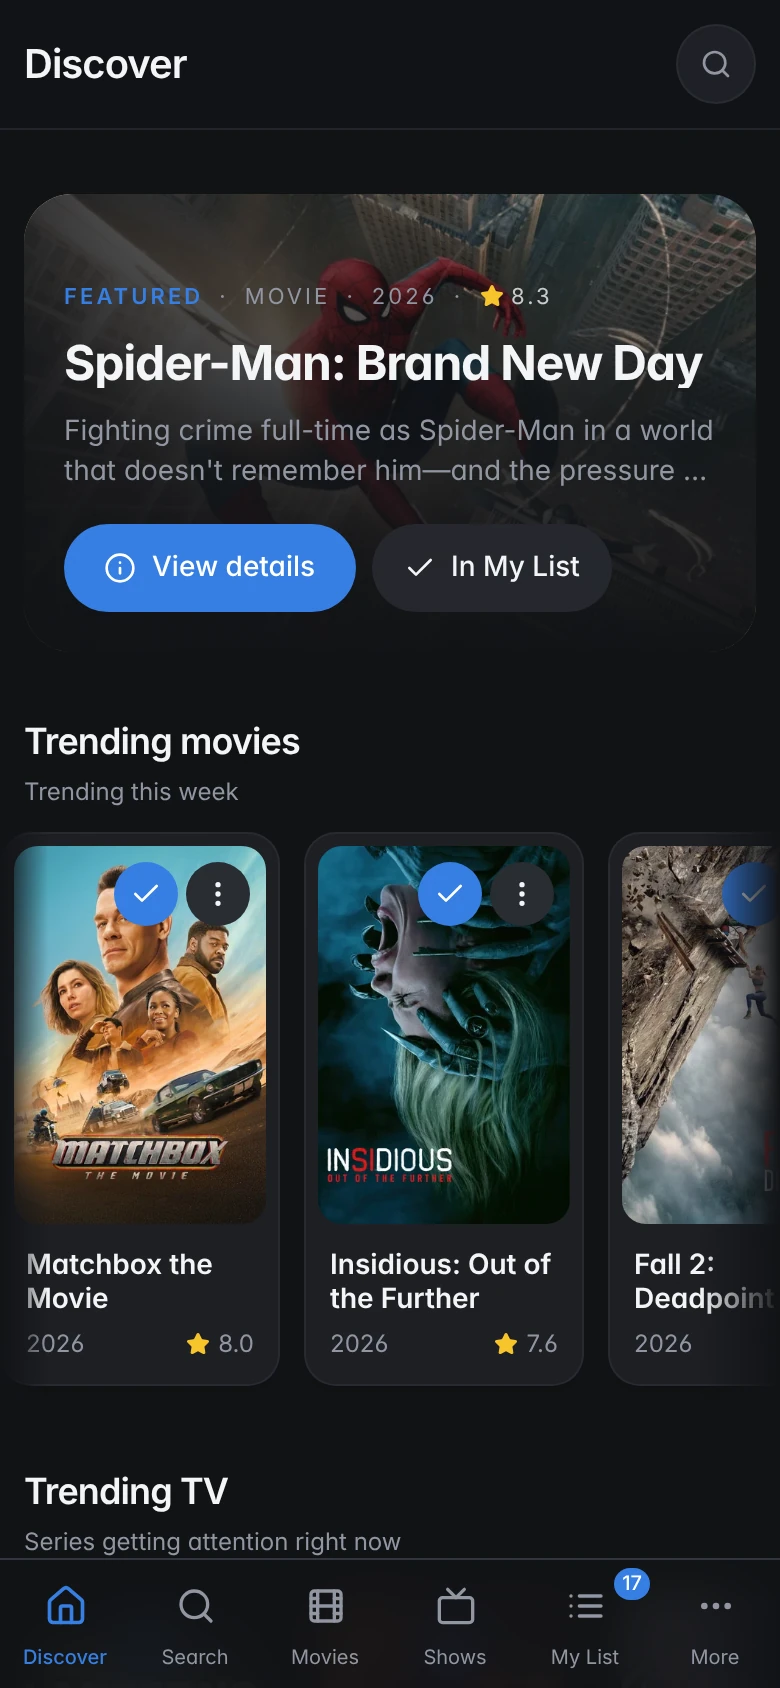
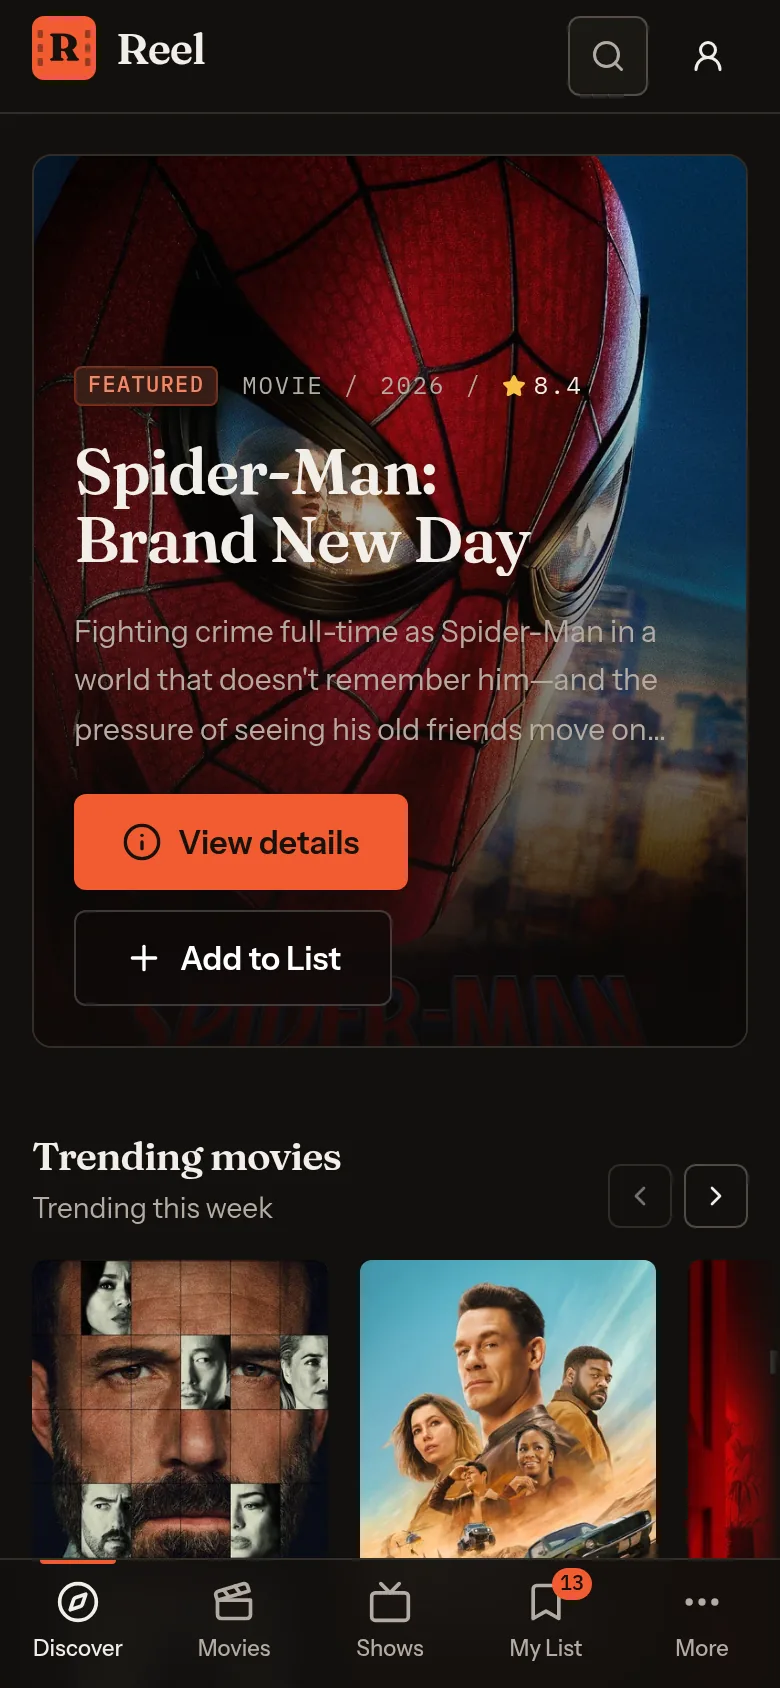
docs: refresh README, changelog and screenshots for the redesign
- Retake every README screenshot from the merged UI (WebP, about half the size) and add Settings,
  sign-in and a mobile title page.
- README: features (Settings, JSON export, account deletion, accessibility, legal pages), tech
  stack, project structure, scripts, the delete-account deploy step, fonts and attribution; the
  license badge no longer uses the old blue.
- CHANGELOG: redesign entries, and two lines corrected to match the shipped UI.
- CONTRIBUTING: design-system rules and the current repo layout.
- SECURITY.md, the PR template and DESIGN.md list the delete-account function and the Slate
  behaviour.

diff --git a/README.md b/README.md
@@ -12,7 +12,7 @@
 
 <p align="center">
   <a href="https://github.com/omsingh02/reel/actions/workflows/ci.yml"><img alt="CI" src="https://github.com/omsingh02/reel/actions/workflows/ci.yml/badge.svg"></a>
-  <a href="LICENSE"><img alt="License: MIT" src="https://img.shields.io/badge/license-MIT-1D64C9"></a>
+  <a href="LICENSE"><img alt="License: MIT" src="https://img.shields.io/badge/license-MIT-F25B31"></a>
   <img alt="TypeScript" src="https://img.shields.io/badge/TypeScript-5-3178C6?logo=typescript&logoColor=white">
   <img alt="React" src="https://img.shields.io/badge/React-18-149ECA?logo=react&logoColor=white">
   <img alt="Vite" src="https://img.shields.io/badge/Vite-5-646CFF?logo=vite&logoColor=white">
@@ -34,35 +34,40 @@
 ## Screenshots
 
 <p align="center">
-  <img src="docs/screenshots/discover.webp" alt="Discover page with a featured title and trending rails" width="49%">
-  <img src="docs/screenshots/title-details.webp" alt="Title page with rating, watched date and trailer" width="49%">
+  <img src="docs/screenshots/discover.webp" alt="Discover with a cinemascope featured title and trending rails" width="49%">
+  <img src="docs/screenshots/title-details.webp" alt="Title page with your rating, watched date and where to watch" width="49%">
 </p>
 <p align="center">
-  <img src="docs/screenshots/my-list.png" alt="My List with watched titles and ratings" width="49%">
-  <img src="docs/screenshots/episode-tracking.png" alt="Per-episode progress for a TV show" width="49%">
+  <img src="docs/screenshots/my-list.webp" alt="My List with watched titles and ratings" width="49%">
+  <img src="docs/screenshots/episode-tracking.webp" alt="Per-episode progress for a TV show" width="49%">
 </p>
 <p align="center">
-  <img src="docs/screenshots/stats.png" alt="Viewing stats" width="49%">
-  <img src="docs/screenshots/upcoming.png" alt="Upcoming releases and new episodes for your list" width="49%">
+  <img src="docs/screenshots/stats.webp" alt="Viewing stats as a credits sheet" width="49%">
+  <img src="docs/screenshots/upcoming.webp" alt="Upcoming releases and new episodes as ticket stubs" width="49%">
 </p>
 
 <details>
-<summary><b>Mobile and light theme</b></summary>
+<summary><b>Mobile, light theme and account screens</b></summary>
 <br>
 <p align="center">
   <img src="docs/screenshots/mobile-discover.webp" alt="Mobile Discover" width="24%">
-  <img src="docs/screenshots/mobile-my-list.png" alt="Mobile My List" width="24%">
-  <img src="docs/screenshots/mobile-stats.png" alt="Mobile Stats" width="24%">
+  <img src="docs/screenshots/mobile-my-list.webp" alt="Mobile My List" width="24%">
+  <img src="docs/screenshots/mobile-stats.webp" alt="Mobile Stats" width="24%">
+  <img src="docs/screenshots/mobile-title.webp" alt="Mobile title page" width="24%">
 </p>
 <p align="center">
-  <img src="docs/screenshots/light-mode.webp" alt="Movies catalogue in the light theme" width="80%">
+  <img src="docs/screenshots/light-mode.webp" alt="Movies catalogue in the light theme" width="49%">
+  <img src="docs/screenshots/settings.webp" alt="Settings with appearance, account and data export" width="49%">
+</p>
+<p align="center">
+  <img src="docs/screenshots/auth.webp" alt="Sign in and create account" width="80%">
 </p>
 </details>
 
 ## Features
 
 **Discover**
-- Featured title plus trending and popular rails for movies and TV.
+- A cinemascope hero for the featured title, then trending and popular rails for movies and TV.
 - Browse **Movies** and **TV Shows** by genre, year, minimum rating and sort order. Filters live in the URL, so a filtered view is shareable.
 - Search with infinite scroll. If the Movies tab has no hits but TV does, it switches for you.
 - Title pages with cast and crew, trailer, recommendations, similar titles, and **where to watch** by region (streaming, rent, buy).
@@ -77,8 +82,11 @@
 **Yours, wherever you are**
 - **Guest first.** Everything works without an account and is stored in your browser. Sign in later and your list, hidden titles and episode progress are merged into your account.
 - Email and password accounts with verification and password reset. Per-user data is protected by Postgres Row Level Security.
-- Dark and light themes, a responsive layout with a mobile bottom bar, and a web app manifest so it can be added to your home screen.
+- **Settings**: switch theme, change your password, **export everything as JSON**, clear this device's data, or **delete your account** (a typed confirmation, then everything you saved goes with it).
+- Dark ("projection room") and light ("programme paper") themes, a top navigation bar on desktop and a bottom tab bar on phones, and a web app manifest so it can be added to your home screen.
+- Accessible by design: keyboard-friendly dialogs with focus management, labelled controls, and colour pairs checked against WCAG AA in both themes.
 - Catalogue responses are cached locally for a few hours so the app feels instant.
+- Plain-language [About](src/pages/About.tsx), [Privacy](src/pages/Privacy.tsx) and [Terms](src/pages/Terms.tsx) pages that say what is stored and who it is shared with.
 
 **For AI assistants**
 - An OAuth-protected [MCP server](#mcp-server) lets compatible assistants search titles and manage your list on your behalf.
@@ -87,11 +95,11 @@
 
 | Layer | What it uses |
 | --- | --- |
-| Frontend | React 18, TypeScript, Vite, Tailwind CSS, shadcn/ui (Radix), React Router, TanStack Query, Zod |
+| Frontend | React 18, TypeScript, Vite, Tailwind CSS, Radix UI primitives with the in-house "Projection Room" design system ([docs/DESIGN.md](docs/DESIGN.md)), React Router, TanStack Query, Zod, Sonner |
 | Backend | Supabase: Postgres with RLS, Auth, Edge Functions (Deno) |
 | Data | [TMDB](https://www.themoviedb.org/) catalogue, reached through a server-side proxy so the API key never ships to the browser |
 | AI access | MCP server built with the open-source `@lovable.dev/mcp-js` SDK, authenticated by Supabase OAuth |
-| Quality | Vitest, ESLint, `tsc`, GitHub Actions CI |
+| Quality | Vitest, ESLint, `tsc`, a WCAG contrast check for the colour tokens, GitHub Actions CI |
 
 ### How it fits together
 
@@ -123,6 +131,7 @@ supabase db push                                  # tables, RLS policies, constr
 supabase config push                              # auth URLs, email confirmation, MCP OAuth server
 supabase secrets set TMDB_API_KEY=<your-tmdb-key> # server-side only, never a VITE_ variable
 supabase functions deploy tmdb                    # TMDB proxy
+supabase functions deploy delete-account          # lets a signed-in user delete their own account
 bun run deploy:mcp                                # MCP server: bundles src/lib/mcp, then deploys it
 ```
 
@@ -143,13 +152,15 @@ Guest mode works as soon as the `tmdb` function is deployed; sign-in, sync and t
 | `dev` | Start the Vite dev server on port 8080 |
 | `build` | Production build to `dist/` (regenerates the sitemap first) |
 | `preview` | Serve the production build locally |
+| `build:mcp` / `deploy:mcp` | Bundle the MCP server from `src/lib/mcp/` / bundle it and deploy it |
 | `typecheck` | Type-check with `tsc` |
 | `lint` | Run ESLint |
 | `test` / `test:watch` | Run the Vitest suite once / in watch mode |
+| `node scripts/check-contrast.mjs` | Check every text/background colour pair in `src/index.css` against WCAG AA, in both themes |
 
 ### Deploying
 
-Reel is a static SPA plus two Supabase edge functions, so it fits the free tiers of [Vercel](https://vercel.com) and [Supabase](https://supabase.com).
+Reel is a static SPA plus three small Supabase edge functions, so it fits the free tiers of [Vercel](https://vercel.com) and [Supabase](https://supabase.com).
 
 1. **Backend:** run the Supabase commands above against your project.
 2. **Frontend:** import the repo into Vercel (the Vite preset is detected; [`vercel.json`](vercel.json) adds the SPA rewrite, cache headers and security headers) and set these environment variables for Production and Preview:
@@ -196,17 +207,23 @@ Then ask things like *"add Dune: Part Two to my list"* or *"mark Severance as wa
 
 ```
 src/
-  components/      UI building blocks (shadcn/ui primitives live in components/ui)
+  components/
+    ui/            Design-system primitives on Radix: button, dialog, select, tabs, ...
+    reel/          Film-specific pieces: poster, rating scale, details slate, stats, empty-state art
+    browse/ title/ library/ account/   Pieces owned by one area of the app
   contexts/        Auth context
   hooks/           Data hooks: watchlist, episode progress, hidden titles, show sync
   integrations/    Generated Supabase client and types
   lib/             TMDB client, date helpers, local stores, episode logic, MCP tools
-  pages/           Route components
+  pages/           Route components (src/pages/Design.tsx is a dev-only style guide at /design)
 supabase/
-  functions/       tmdb (catalogue proxy) and mcp (generated MCP server)
+  functions/       tmdb (catalogue proxy), delete-account, and mcp (MCP server)
   migrations/      SQL schema and RLS policies
-docs/              Brand guide, banner, screenshots
+scripts/           Sitemap, MCP bundle and colour-contrast tooling
+docs/              Design system, brand guide, banner, screenshots
 ```
+
+The visual language lives in [`docs/DESIGN.md`](docs/DESIGN.md) (tokens, type, components and rules) and [`docs/BRAND.md`](docs/BRAND.md) (logo and assets). Run `bun run dev` and open `/design` to see every token and component in both themes.
 
 A few conventions worth knowing: TMDB dates are plain calendar dates, so always go through `src/lib/dates.ts` instead of `new Date("YYYY-MM-DD")` (which shifts a day west of UTC), and guest and signed-in users share the same hooks, switching storage behind the scenes.
 
@@ -216,7 +233,7 @@ Bug reports, ideas and pull requests are welcome. Read [CONTRIBUTING.md](CONTRIB
 
 ## Roadmap ideas
 
-Not promises, just where it could go next: import from Letterboxd and Trakt exports, export to CSV/JSON, custom lists, new-episode notifications, genre stats, and a service worker for true offline use.
+Not promises, just where it could go next: import from Letterboxd and Trakt exports, CSV export (JSON export is in Settings), custom lists, new-episode notifications, genre stats, and a service worker for true offline use.
 
 ## License
 
@@ -225,5 +242,5 @@ Not promises, just where it could go next: import from Letterboxd and Trakt expo
 ## Acknowledgements and attribution
 
 - Movie and TV metadata, images and streaming-availability data come from [TMDB](https://www.themoviedb.org/); availability data is provided by JustWatch via TMDB. **This product uses the TMDB API but is not endorsed or certified by TMDB.**
-- UI built with [shadcn/ui](https://ui.shadcn.com), [Radix UI](https://www.radix-ui.com), [Lucide](https://lucide.dev) icons and the [Inter](https://rsms.me/inter/) typeface.
+- UI built on [Radix UI](https://www.radix-ui.com) primitives and [Lucide](https://lucide.dev) icons, with [Sonner](https://sonner.emilkowal.ski) for toasts. Type is set in [Fraunces](https://github.com/undercasetype/Fraunces), [Instrument Sans](https://github.com/Instrument/instrument-sans) and [IBM Plex Mono](https://github.com/IBM/plex), self-hosted via [Fontsource](https://fontsource.org) under the SIL Open Font License.
 - Posters and artwork in the screenshots belong to their respective owners.

diff --git a/CHANGELOG.md b/CHANGELOG.md
@@ -7,6 +7,18 @@ All notable changes to Reel are documented here. The format is based on
 
 ### Added
 
+- **"Projection Room" design system.** Two warm themes (a projection-black dark theme and a
+  "programme paper" light theme), one signal colour with gold reserved for ratings, Fraunces /
+  Instrument Sans / IBM Plex Mono type (self-hosted), a Radix-based component library, film-specific
+  pieces (poster with typeset fallback, ten-frame rating scale, details slate, empty-state art),
+  and a dev-only style guide at `/design`. Documented in `docs/DESIGN.md`;
+  `scripts/check-contrast.mjs` checks every colour pair against WCAG AA in both themes.
+- **Settings** (`/settings`): theme, change password, export your data as JSON, clear this device's
+  data, and delete your account behind a typed confirmation.
+- **About, Privacy and Terms** pages (`/about`, `/privacy`, `/terms`). The Privacy and Terms texts
+  are plain-language drafts and should be reviewed before relying on them.
+- `delete-account` edge function: verifies the caller's token with Supabase Auth, then deletes the
+  user; their rows cascade. Deploy with `supabase functions deploy delete-account`.
 - Hidden titles page (`/hidden`) to review and unhide anything marked "Not interested", plus an
   Undo toast when hiding a title.
 - "Watched on" date picker, so past viewings can be logged on the right day.
@@ -17,18 +29,34 @@ All notable changes to Reel are documented here. The format is based on
 - Forgot-password and reset-password flow (`/reset-password`).
 - Mobile "More" menu (Upcoming, Stats, Hidden titles, theme, account) and a Movies tab in the bottom bar.
 - "My rating" sort on My List.
-- TMDB and JustWatch attribution in the sidebar and mobile menu.
+- TMDB and JustWatch attribution in the site footer and on the About page.
 - Per-title page titles and descriptions; share links now use `/movie/:id` and `/show/:id`.
 - Search switches to the other tab when only that tab has results, and keeps results without a poster.
 - Default "Available on" region now comes from the browser locale.
 - `slim=1` option on the `tmdb` edge function for lightweight details.
 - Unit tests for dates, runtime calculation, episode logic and list cleaning; CI workflow,
   issue and PR templates, Dependabot, and contributor docs.
-- Brand kit: path-based logo and wordmarks, banner, GitHub social preview, README screenshots and
-  a brand guide (`docs/`), plus the MIT `LICENSE`.
+- Brand kit: logo, wordmarks, app icons, banner, GitHub social preview, README screenshots and a
+  brand guide (`docs/`), plus the MIT `LICENSE`.
 
 ### Changed
 
+- **The whole interface was redesigned**, with the same data, routes and behaviour:
+  - A top navigation bar on desktop and a bottom tab bar with a "More" sheet on phones, replacing
+    the sidebar.
+  - Discover opens on a cinemascope hero; Movies, TV Shows and Search get a filter toolbar and
+    loading, empty and error states shaped like the content.
+  - The title view is an accessible Radix dialog (labelled by the title, focus trap, scroll lock)
+    and a standalone page, with a film-strip episode tracker.
+  - My List is a set of rows with a watched toggle and a rating popover, Upcoming is a set of ticket
+    stubs, Stats is a credits sheet and Hidden is a poster grid.
+  - Sign-in is a split layout with inline field errors and a show/hide password toggle; the OAuth
+    consent screen names the client and says what it can do.
+  - The error, offline and missing-configuration screens use the shared empty-state and callout
+    components; the offline banner is a slim strip under the top bar.
+- Toasts use a single system (Sonner); the old Radix toast and compatibility adapter were removed.
+- New brand identity (film-frame mark, new icons, social card, banner and architecture diagram),
+  replacing the earlier blue one.
 - **Standalone deployment.** Reel no longer depends on the Lovable platform: the Supabase client is
   plain (no preview-auth broker), the `.lovable/` folder is gone, the MCP consent screen moved from
   `/.lovable/oauth/consent` to `/oauth/consent`, `.env` is no longer tracked, and the Supabase auth
@@ -58,6 +86,10 @@ All notable changes to Reel are documented here. The format is based on
 
 ### Fixed
 
+- The title details grid no longer leaves a solid empty cell when a row has an odd item out.
+- On phones the rating and "Where to watch" now follow the synopsis instead of sitting below the
+  whole cast and episode list.
+- A season's accessible name reads "Season 1, 0/8 watched" instead of "Season 10/8 watched".
 - MCP tools read `SUPABASE_ANON_KEY` (what Supabase injects into Edge Functions) when
   `SUPABASE_PUBLISHABLE_KEY` is absent, so they work on a regular Supabase project.
 - The `tmdb` function times out after 8 s, forwards upstream 404/429 (with `Retry-After`) instead
@@ -92,6 +124,8 @@ All notable changes to Reel are documented here. The format is based on
 
 ### Security
 
+- `delete-account` refuses tokens issued to connected apps, so an assistant you approved to manage
+  your list can never delete your account; only a session in Reel itself can.
 - TMDB request errors can contain the full request URL, including the API key. The `tmdb` function
   now redacts it from logs, and the MCP tools return a generic "TMDB is unreachable or timed out"
   message instead of the raw error.

diff --git a/CONTRIBUTING.md b/CONTRIBUTING.md
@@ -25,14 +25,15 @@ data comes from the `tmdb` edge function, which needs a `TMDB_API_KEY` secret
 
 | Path | What lives there |
 | --- | --- |
-| `src/pages/` | Route-level screens (Discover, Movies, Shows, My List, Upcoming, Stats, Hidden, Auth, …) |
-| `src/components/` | Feature components; `components/ui/` is shadcn-ui |
+| `src/pages/` | Route-level screens (Discover, Movies, Shows, My List, Upcoming, Stats, Hidden, Settings, Auth, About, …). `Design.tsx` is a dev-only style guide at `/design` |
+| `src/components/` | `ui/` design-system primitives (Radix), `reel/` film-specific pieces, `browse/` `title/` `library/` `account/` parts that belong to one area, and shared app-frame components |
 | `src/hooks/` | Data hooks (watchlist, episode progress, hidden titles, show sync) |
 | `src/lib/` | Pure helpers: TMDB client, dates, show/episode logic, guest storage, MCP tool sources |
 | `src/contexts/` | Auth context |
 | `supabase/migrations/` | SQL migrations, including RLS policies |
-| `supabase/functions/` | Edge functions: `tmdb` (catalogue proxy) and `mcp` (MCP server) |
-| `scripts/` | Build-time scripts (sitemap) |
+| `supabase/functions/` | Edge functions: `tmdb` (catalogue proxy), `delete-account`, and `mcp` (MCP server) |
+| `scripts/` | Tooling: sitemap, MCP bundle, colour-contrast check |
+| `docs/` | `DESIGN.md` (the design system), `BRAND.md`, banner and screenshots |
 
 ## Workflow
 
@@ -54,8 +55,12 @@ data comes from the `tmdb` edge function, which needs a `TMDB_API_KEY` secret
 
 ## Code guidelines
 
-- **UI:** shadcn-ui and Tailwind. Reuse components in `src/components/ui/` and the existing design
-  tokens rather than adding one-off colors.
+- **UI:** Tailwind with the design system in [`docs/DESIGN.md`](docs/DESIGN.md). Reuse components
+  from `src/components/ui/` and `src/components/reel/`, and use semantic tokens (`bg-card`,
+  `text-muted-foreground`, `border-border`), never raw hex or Tailwind palette colours. There is no
+  blue or purple in the palette. Each page uses `PageHeader` for its single `h1`, and every data
+  view needs loading, empty and error states. Open `/design` in development to see every piece in
+  both themes. If you change colour tokens, run `node scripts/check-contrast.mjs`.
 - **Imports:** use the `@/…` alias, not long relative paths.
 - **Dates:** TMDB dates are calendar dates like `2026-10-12`. Always go through `src/lib/dates.ts`.
   Never call `new Date('YYYY-MM-DD')` — it parses as UTC and shows the wrong day west of UTC.
@@ -68,6 +73,8 @@ data comes from the `tmdb` edge function, which needs a `TMDB_API_KEY` secret
 - **Migrations** live in `supabase/migrations/`. Every table needs Row Level Security and policies;
   the publishable key ships to browsers, so RLS is the security boundary.
 - **Edge functions** live in `supabase/functions/` and need redeploying after changes.
+  `delete-account` checks the caller's token itself (`verify_jwt = false` in `config.toml`) and
+  refuses tokens issued to connected apps; keep it that way.
 - **The MCP server** is written in `src/lib/mcp/`. The bundle at `supabase/functions/mcp/index.ts`
   is **auto-generated** from those sources — edit the sources, not the bundle. If you can't
   regenerate it, mirror your change in both and say so in the PR.

diff --git a/docs/DESIGN.md b/docs/DESIGN.md
@@ -74,7 +74,7 @@ Fonts are self-hosted (`@fontsource`), loaded in `src/main.tsx`.
 | `MediaCard` | poster + plain title + mono year/score. One real button via a stretched link; quick actions (add/remove, hide) on hover, focus and touch; a corner flag shows "in your list" or "watched" |
 | `RatingScale` | 1–10 as ten film frames that fill gold. Radio group: click, arrows, Home/End, Backspace to clear. Hover previews. `sm` variant for popovers and rows |
 | `SectionHeader` | serif section title with optional subtitle and action |
-| `Slate` | production details as a hairline grid, like a clapperboard's info panel |
+| `Slate` | production details as a hairline grid, like a clapperboard's info panel; a cell left alone in its row stretches across it |
 | `Stat` | one big serif number with a mono label |
 | `SprocketRule` | decorative perforation divider |
 | `Art`, `EmptyState` | monoline film illustrations and the empty/error layout |

diff --git a/SECURITY.md b/SECURITY.md
@@ -23,7 +23,7 @@ In scope:
 - Authentication and session handling (sign-in, sign-up, password reset)
 - Row Level Security (RLS) policies and anything that could expose or change another user's data
   (`watchlist_items`, `hidden_items`, `episode_progress`, `profiles`)
-- The `tmdb` and `mcp` Supabase Edge Functions (`supabase/functions/`)
+- The `tmdb`, `delete-account` and `mcp` Supabase Edge Functions (`supabase/functions/`)
 - The OAuth consent flow used by the MCP server (`/oauth/consent`)
 
 Out of scope:

diff --git a/.github/PULL_REQUEST_TEMPLATE.md b/.github/PULL_REQUEST_TEMPLATE.md
@@ -24,5 +24,5 @@
 <!-- Delete if not applicable. -->
 
 - [ ] Database change: migration added under `supabase/migrations/` with RLS policies
-- [ ] Edge function change (`tmdb` or `mcp`): needs redeploying, noted here
+- [ ] Edge function change (`tmdb`, `delete-account` or `mcp`): needs redeploying, noted here
 - [ ] MCP tools changed in `src/lib/mcp/` (the generated bundle in `supabase/functions/mcp/` is updated too)
